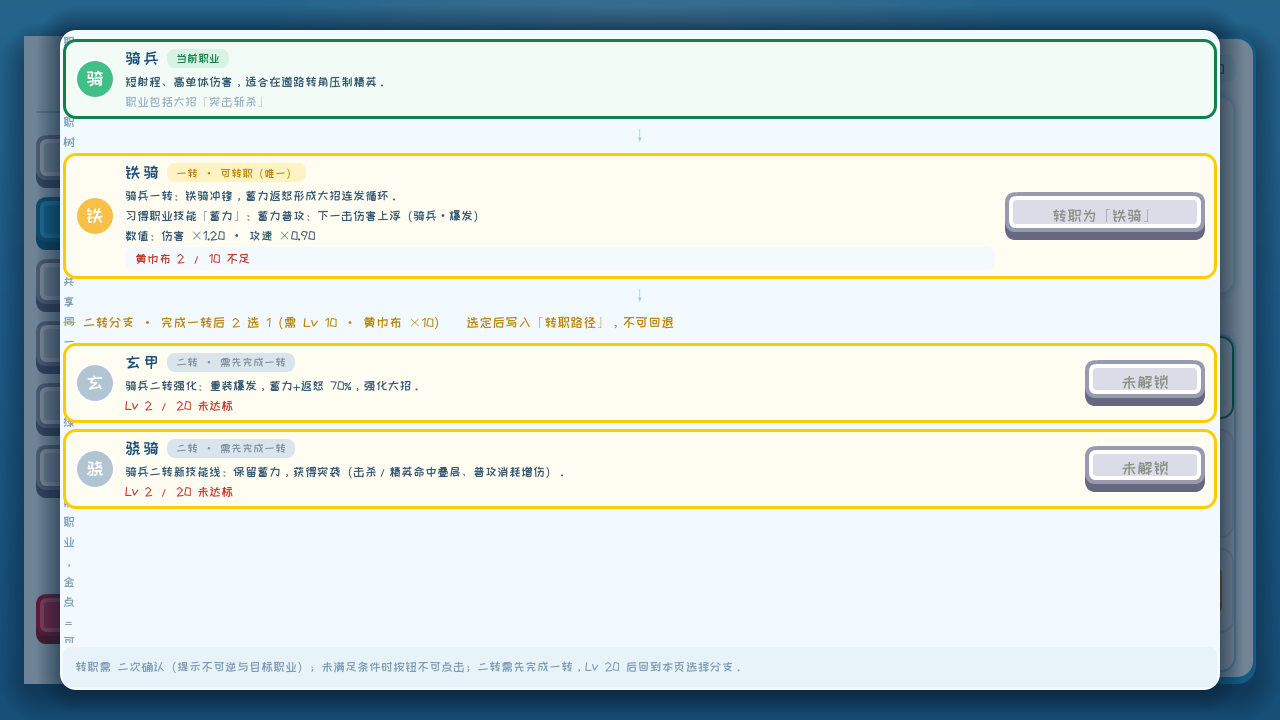
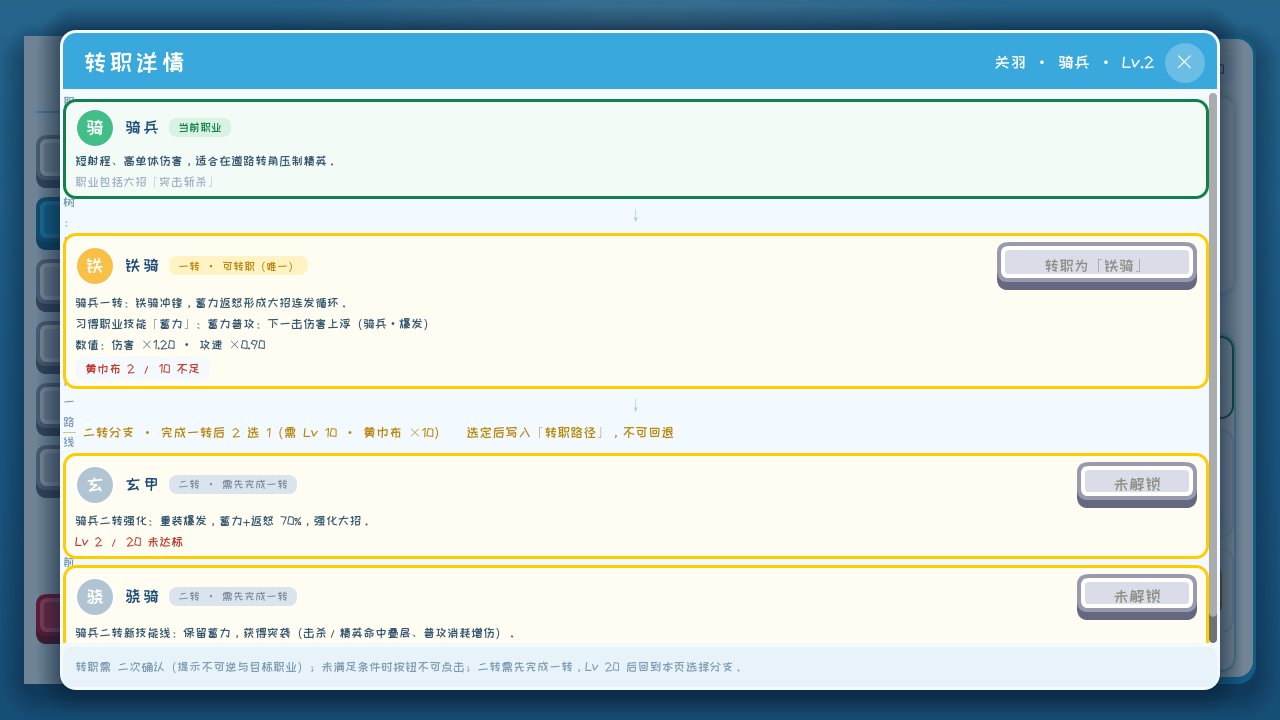
fix(v0.36.13): 阶段8·提交10延伸（程序0.8.10.21）——转职详情叠层蓝头渲染修复（UI_LAYOUT v0.20.8，BUGS B-037）：历次补丁将 box.add_child(header) 丢失（header 构建完整但从未挂入弹层，弹层顶部直接是转职树节点），且头部 Panel 无最小高度为 0；修复=补挂载 + header min height 56（蓝底 #38a8dd 圆角顶 + MarginContainer 内距）；窗口化探针截图核验蓝条白字/右侧圆形✕/完整转职树（当前职业绿→一转金[习得技能+数值行+条件胶囊+转职为钮]→二转分支预览灰卡）渲染

Changed region(s): [[0.0312, 0.0306, 0.9688, 0.8861]]

diff --git a/docs/modules/BUGS.md b/docs/modules/BUGS.md
@@ -1,7 +1,8 @@
 # Bug 修复记录（BUGS）
 
 > 隶属《烽火连营·三国塔防》设计文档体系，总纲见 [../GAME_DESIGN.md](../GAME_DESIGN.md)。
-> 文档版本：v0.28（2026-09-05）
+> 文档版本：v0.29（2026-09-05）
+> v0.29 变更（2026-09-05）：新增 B-037——转职详情叠层蓝色标题条未渲染：历次补丁将 `box.add_child(header)` 丢失（header 构建完整但从未挂进弹层），且头部 Panel 无最小高度；修复=补挂载 + min height 56（v0.36.13 / 程序 0.8.10.21 / UI_LAYOUT v0.20.8）。
 > v0.28 变更（2026-09-05）：新增 B-036——章节下拉弹层固定高 308px 而七行实际需 ~322px，末行「第七章 · 北伐中原」被截断一半（用户反馈「下拉框把第七章挡住了一半，过长就加一个滚动条」）；修复：弹层列表套 ScrollContainer 限高 ~262px（约 5 行）超出滚动，滚动条样式对齐概念图 .scroll（浅蓝圆角细条）（v0.36.11 / 程序 0.8.10.19 / UI_LAYOUT v0.20.5）。
 > v0.27 变更（2026-09-05）：新增 B-035——v0.20.3 下拉自绘补丁三处回归（预告统计胶囊整体消失[循环漏 stats.add_child]、预留章行缺「第二章…」编号、框按钮右侧三角标缺失[Button 无 OptionButton arrow 槽]），用户真机反馈发现；修复并首次以真机鼠标点击跑通完整交互链路验证（开→禁用行无响应→选行关闭→文字保持）（v0.36.10 / 程序 0.8.10.18 / UI_LAYOUT v0.20.4）。
 > v0.26 变更（2026-09-05）：新增 B-034——科技树节点点击黑色闪烁（未选中节点未覆盖 pressed/hover_pressed 样式，点击瞬间回落项目默认深色主题）；修复：未选中态同样覆盖 pressed 两样式（v0.36.8 / 程序 0.8.10.16 / UI_LAYOUT v0.20.2）。
@@ -70,6 +71,7 @@
 | B-028 | v0.35.6（程序 0.8.10.4） | 地图编辑器插件无法加载——Godot 编辑器启动弹警告「无法从路径 res://addons/map_editor/map_editor_plugin.gd 加载附加插件脚本：脚本不在工具模式下」，工具菜单无「地图编辑器」入口 | 0.8.10.3 启用插件后打开 Godot 编辑器 | Godot 4 要求 `plugin.cfg` 指定脚本为工具脚本（`script.is_tool()`）才允许作为 EditorPlugin 加载；M1 三个 addon 脚本均未加 `@tool` 注解 | 三个脚本（`map_editor_plugin.gd` / `map_editor_overlay.gd` / `map_editor_window.gd`）头部补 `@tool`（插件在编辑器内实例化窗口与覆盖层，一并标注）；headless 编辑器验证插件 `_enter_tree` 正常执行、无加载/脚本错误 | 已修复 |
 | B-029 | v0.35.7（程序 0.8.10.5） | 地图编辑器窗口右上角 X 点击无响应，窗口无法关闭（只能停用插件） | 打开 Godot 编辑器 → 项目 → 工具 → 地图编辑器 → 点窗口右上角 X | Godot 4 `Window` 节点点原生关闭按钮只发 `close_requested` 信号、不自动隐藏/释放；M1 未连接该信号，窗口保持打开 | `map_editor_window.gd` 连接 `close_requested` → `hide()`（实例与已载入状态保留，工具菜单再次打开时复用原实例重新弹出）；新增 MapEditorRunner「发射 close_requested → 窗口隐藏」断言 | 已修复 |
 | B-030 | v0.35.7（程序 0.8.10.5） | 编辑器画布显示与游戏不符：窗口内画布区域小于 1280×720 时地图右侧/底部被裁切，16×9 网格显示不全（用户反馈「地图整体大小与网格数量与游戏对不上」）；画布区域大于 1280×720 时则 1:1 渲染留空边、不随窗口缩放 | 打开地图编辑器，观察画布网格数量（缺列/缺行）与游戏内战场对比 | `SubViewportContainer.stretch = true` 把 SubViewport 实际尺寸覆写为容器尺寸（非 1280×720），而 GridBackground 内容按 1280×720 逻辑坐标 1:1 绘制——小则裁切、大则留边，均非等比缩放 | SubViewport 设 `size_2d_override = (1280, 720)` + `size_2d_override_stretch = true`（内容恒按 1280×720 逻辑分辨率布局、缩放铺满视口），SubViewportContainer 外包 `AspectRatioContainer`（16:9 FIT 居中）保比例不变形；数据面板补「网格 16×9（80px/格 · 1280×720）」规格行；MapEditorRunner 增补画布结构断言（override 值 / AspectRatioContainer 容器链） | 已修复 |
+| B-037 | v0.36.13（程序 0.8.10.21） | 转职详情叠层蓝色标题条未渲染——弹层顶部直接是转职树节点，无「转职详情」蓝头 | 打开武将养成 → 职业 → 转职详情 | 历次补丁将 `box.add_child(header)` 丢失，header 构建后从未挂入弹层树；且头部 Panel 无内容传导最小高度为 0 | 补 `box.add_child(header)`；头部 Panel 设 min height 56；窗口化探针截图核验蓝条+白字+右侧圆形✕渲染 | 已修复 |
 | B-036 | v0.36.11（程序 0.8.10.19） | 章节下拉弹层高度固定 308px，七行章节实际需 ~322px，末行「第七章 · 北伐中原」被截断一半 | 打开地图选关章节下拉，观察末行 | 弹层高度按行数硬算且行高漏计分隔间距（7×42+14=308 < 实际 7×46-4+12≈322），且无滚动兜底 | 列表盒套 ScrollContainer（横向禁用），弹层限高 262px（约 5 行）超出滚动；滚动条按概念图 .scroll 样式（10px 浅蓝圆角细条，悬停亮蓝）；探针验证滚动到底末行完整可见 | 已修复 |
 | B-035 | v0.36.10（程序 0.8.10.18） | v0.20.3 下拉自绘补丁三处回归：①关卡预告统计胶囊整体消失（用户「胶囊被你吃了」）②预留章行缺「第二章/第三章…」编号 ③下拉框右侧向下三角标缺失 | 真机打开地图选关，点开章节下拉、观察预告条 | ①重写胶囊循环时漏掉 `stats.add_child(pill)`，胶囊创建后从未挂入列表（headless 树检查 children=0）②预留行只显示名称未按概念图编号 ③普通 Button 没有 OptionButton 的 arrow 主题槽，`add_theme_icon_override("arrow")` 无效 | 补 `stats.add_child(pill)`；预留行按概念图编号「第N章 · 名称」（N=index+2）；三角标改右锚定 TextureRect 子图标随按钮 resized 重定位；首次真机鼠标点击验证完整交互链路（开→禁用行无响应→选行关闭→文字保持） | 已修复 |
 | B-034 | v0.36.8（程序 0.8.10.16） | 科技树点击科技块瞬间黑色闪烁（用户反馈「点击科技块时有黑色闪烁」） | 科技树页点击任意未选中节点 | 节点为 toggle 按钮，未选中时只覆盖 normal/hover 样式，点击瞬间 pressed/hover_pressed 回落项目默认深色主题再被 _refresh 覆盖，产生黑闪 | 未选中态同样覆盖 pressed/hover_pressed 样式（与 normal 一致），点击不再闪黑 | 已修复 |

diff --git a/docs/GAME_DESIGN.md b/docs/GAME_DESIGN.md
@@ -1,6 +1,8 @@
 # 《烽火连营·三国塔防》设计方案（GDD·总纲）
 
-> 版本：v0.36.12（2026-09-05）
+> 版本：v0.36.13（2026-09-05）
+> v0.36.13 变更（阶段 8·提交 10 延伸·修复，程序 0.8.10.20 → **0.8.10.21**）：**转职详情叠层蓝头渲染修复（[BUGS](modules/BUGS.md) B-037）**——历次补丁丢失 `box.add_child(header)` 致蓝色标题条从未挂入弹层 + 头部 Panel 无最小高度；补挂载与 min height 56，窗口化探针截图核验蓝条/白字/圆形✕/完整转职树渲染。
+> v0.36.12 变更（阶段 8·提交 10 延伸，程序 0.8.10.19 → **0.8.10.20**）
 > v0.36.12 变更（阶段 8·提交 10 延伸，程序 0.8.10.19 → **0.8.10.20**）：**武将养成界面五点重构**（[UI_LAYOUT.md](modules/UI_LAYOUT.md) v0.20.5 → v0.20.6，用户反馈列表块排版/统计格无包块/技能三卡与 UI 不符/职业页签排版严重不符/转职详情缺完整转职树）——①列表卡姓名/职业两行分离+右对齐 Lv；②四统计格 PanelContainer 独立包块（裸 VBox 样式不绘制为无框根因）；③技能页签大招/职业技能两卡并排+角色卡整行+怒气条入头部，技能卡改 PanelContainer；④职业页签按 ui_develop_job.png 重排（职业身份绿卡+大招/职业技能两卡+转职进度白卡+转职详情按钮）；⑤转职详情叠层按 ui_develop_promo.png 重构（蓝标题条+完整转职树：基础职业→已转链→下一转候选[转职为按钮]→二转分支预览，修复缺完整树问题）。回归 PromoteDialog / Flow / Smoke 全绿。
 > v0.36.11 变更（阶段 8·提交 10 延伸·修复，程序 0.8.10.18 → **0.8.10.19**）
 > v0.36.11 变更（阶段 8·提交 10 延伸·修复，程序 0.8.10.18 → **0.8.10.19**）：**章节下拉弹层加滚动（[BUGS](modules/BUGS.md) B-036，用户反馈「第七章被挡住一半，过长加滚动条」）**——弹层高度按行数硬算漏计分隔间距致末行截断一半；列表套 ScrollContainer 限高 262px（约 5 行）超出滚动，滚动条对齐概念图 .scroll 规范（10px 浅蓝圆角细条）；探针验证滚动到底末行完整可见。回归 Flow 全绿。
